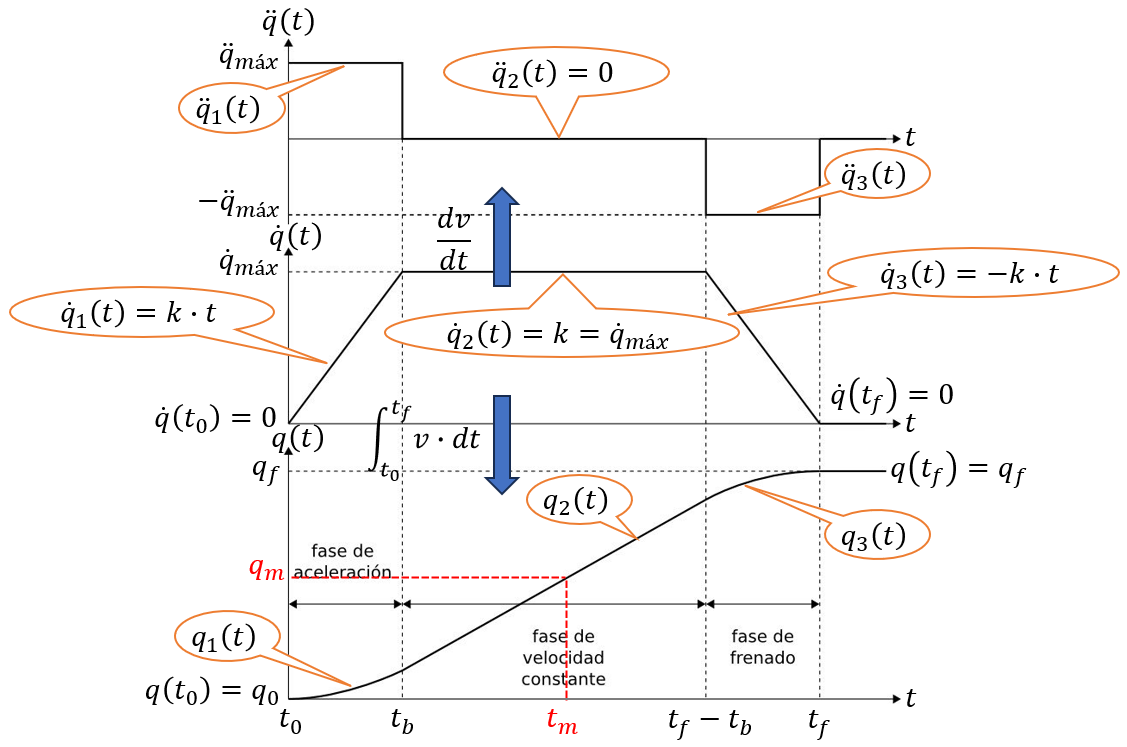
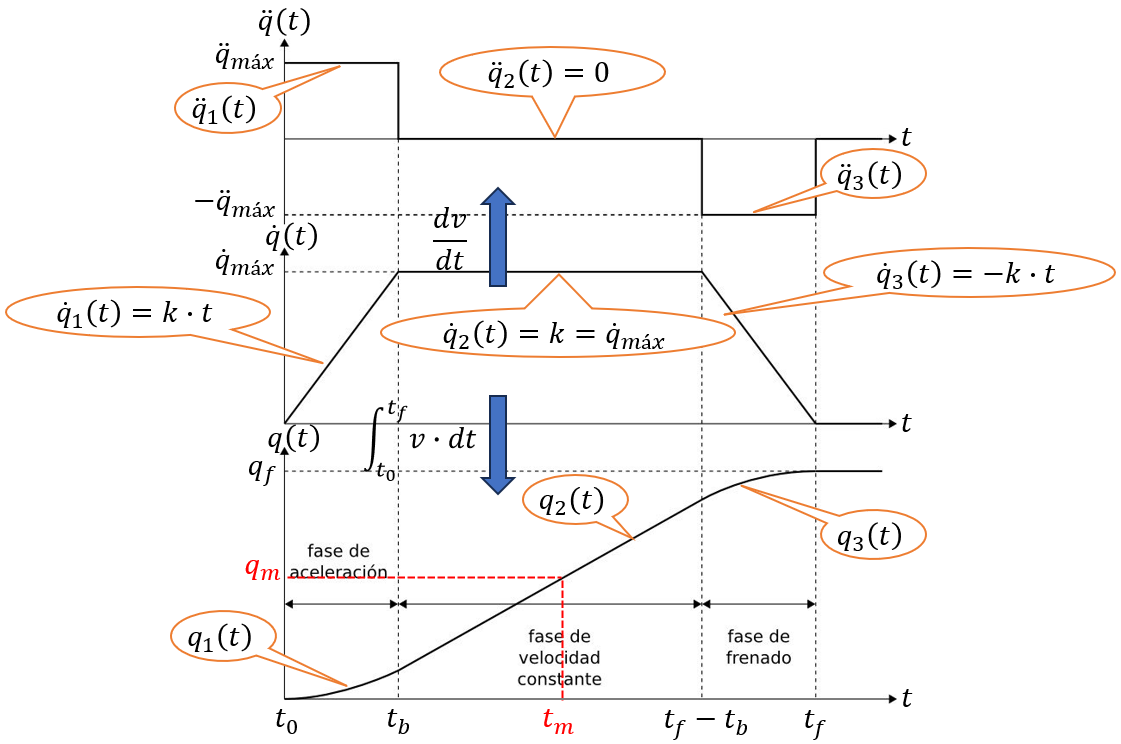
Trapezoidal velocity profile equations

diff --git a/Aula10/README.md b/Aula10/README.md
@@ -168,15 +168,41 @@ Las trayectorias se pueden obtener a través de diferentes métodos:
 
 <h4>Perfil de velocidad trapezoidal</h4>
 
-El perfil de velocidad trapezoidal también conocido como trayectoria de segmento lineal con dobleces parabólicos (lspb) consiste en tres fases (aceleración, velocidad cruzero y desaceleración).
+El perfil de velocidad trapezoidal también conocido como trayectoria de segmento lineal con dobleces parabólicos (lspb) consiste en tres fases (aceleración, velocidad cruzero y desaceleración), considerando una velocidad máxima $W_máx$ y un tiempo de dobles $t_b$.
 
+<div align="center">
+<img src="Imagenes/image-5.png" alt="Diagrama trapezoidal"/>
+<br>
+<figcaption>Fuente: Autor</figcaption>
+</div>
 
+<h5>Condiciones</h5>
 
-es realizado en el espacio de las articulaciones. Una de las combinaciones más utilizadas en este perfil es 1/4, 1/2, 1/4; sin embargo, esto depende de la velocidad máxima y el tiempo final.
+<div align="center">
+<img src="Imagenes/image-7.png" alt="Condiciones"/>
+<br>
+</div>
 
-![PVT](Imagenes/image-5.png)
+<h5>Puntos medios</h5>
 
-$$𝑉𝑚á𝑥=\frac{𝑑_1−𝑑_0}{𝑡_𝑓} \cdot 1.5$$
+<div align="center">
+<img src="Imagenes/image-8.png" alt="Puntos medios"/>
+<br>
+</div>
+
+<h5>Posición, velocidad y aceleración</h5>
+
+<div align="center">
+<img src="Imagenes/image-10.png" alt="Puntos medios"/>
+<br>
+</div>
+
+<h5>Posición, velocidad y aceleración</h5>
+
+<div align="center">
+<img src="Imagenes/image-11.png" alt="Puntos medios"/>
+<br>
+</div>
 
 Las trayectorias con puntos intermedios a través de la interpolación de ángulos del punto A y B generan un resultado circular (MoveJ).
 
